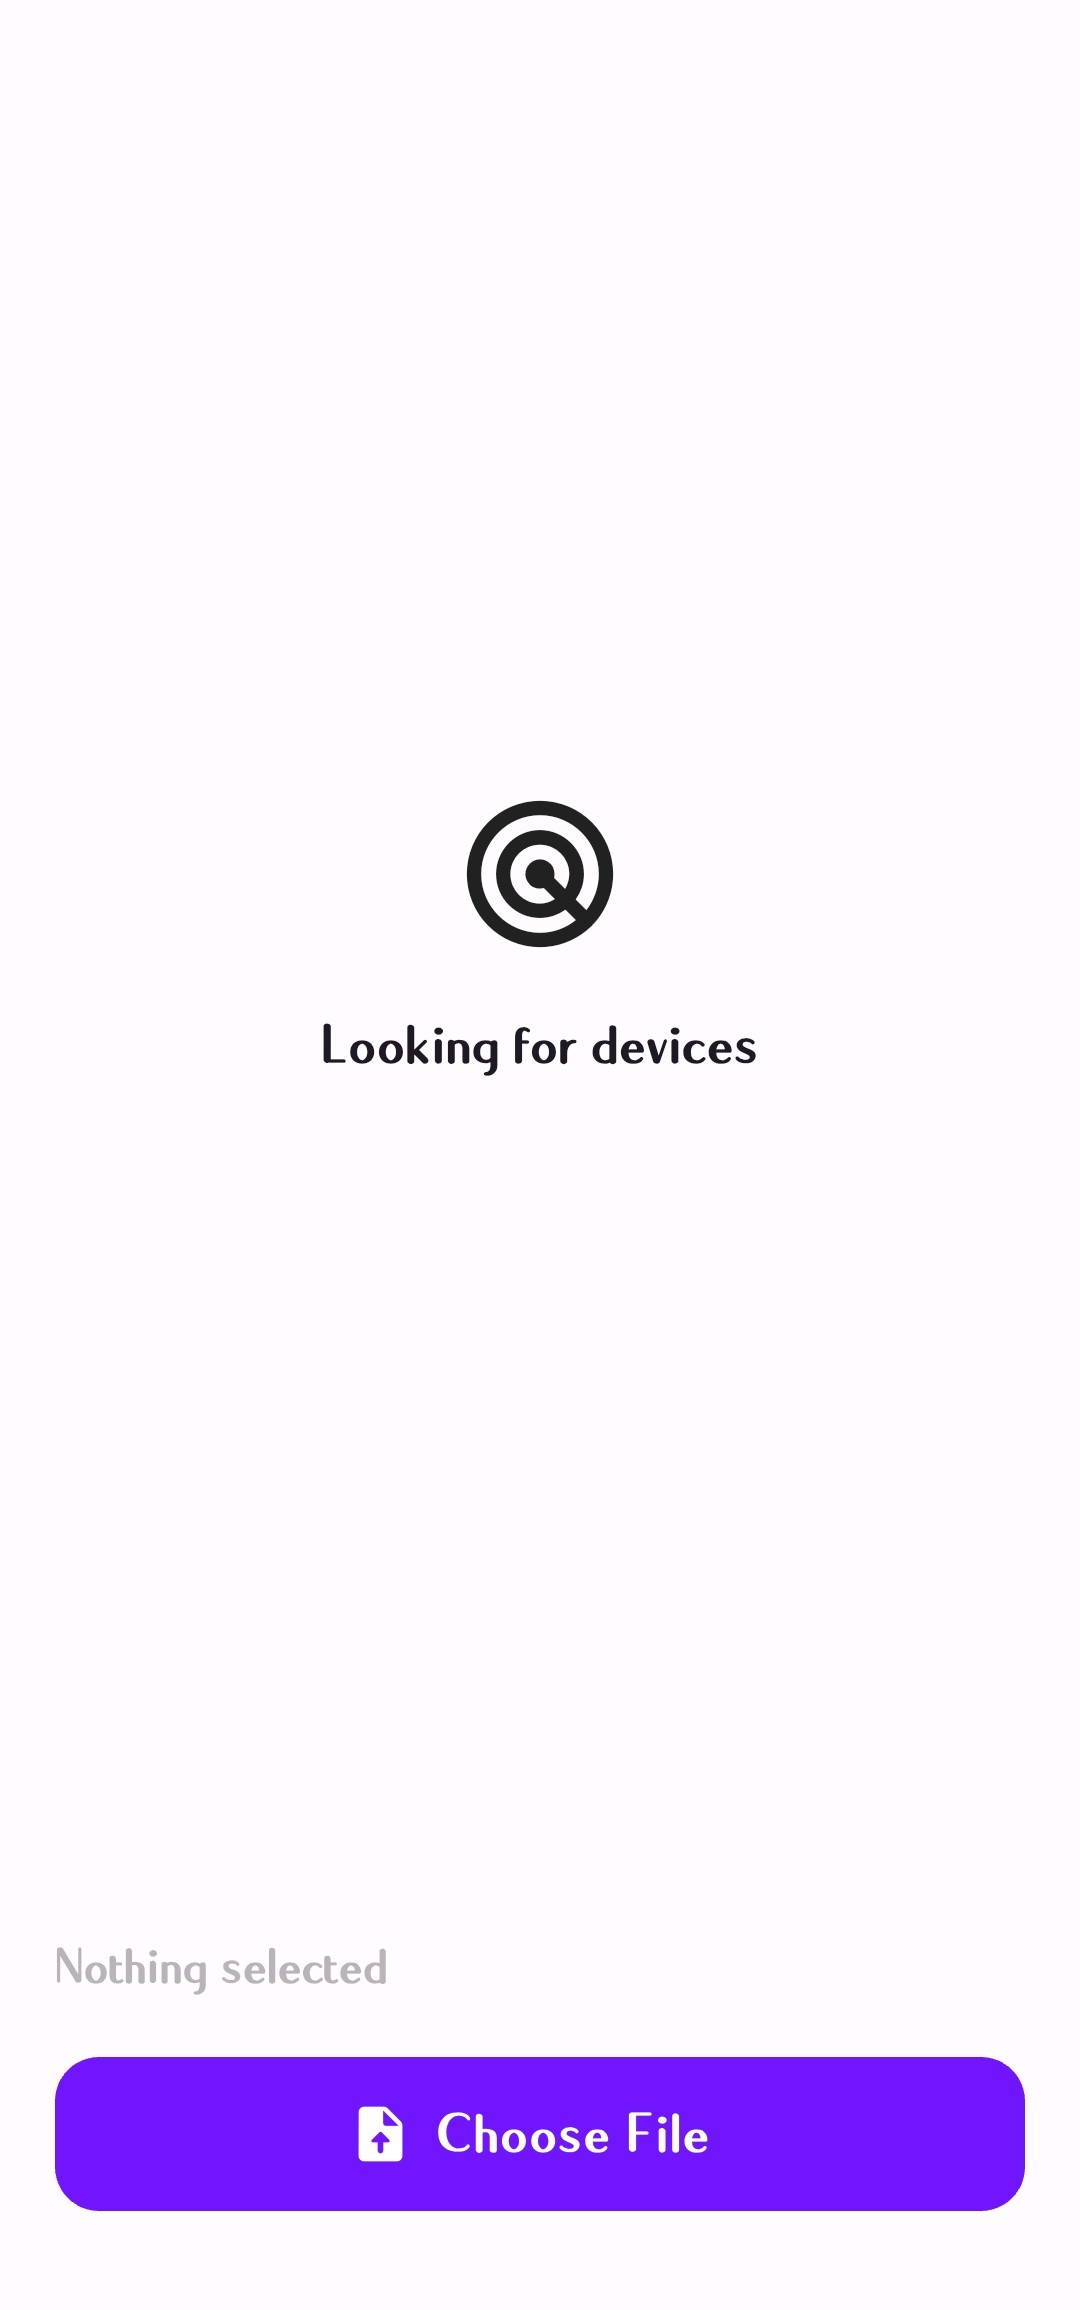
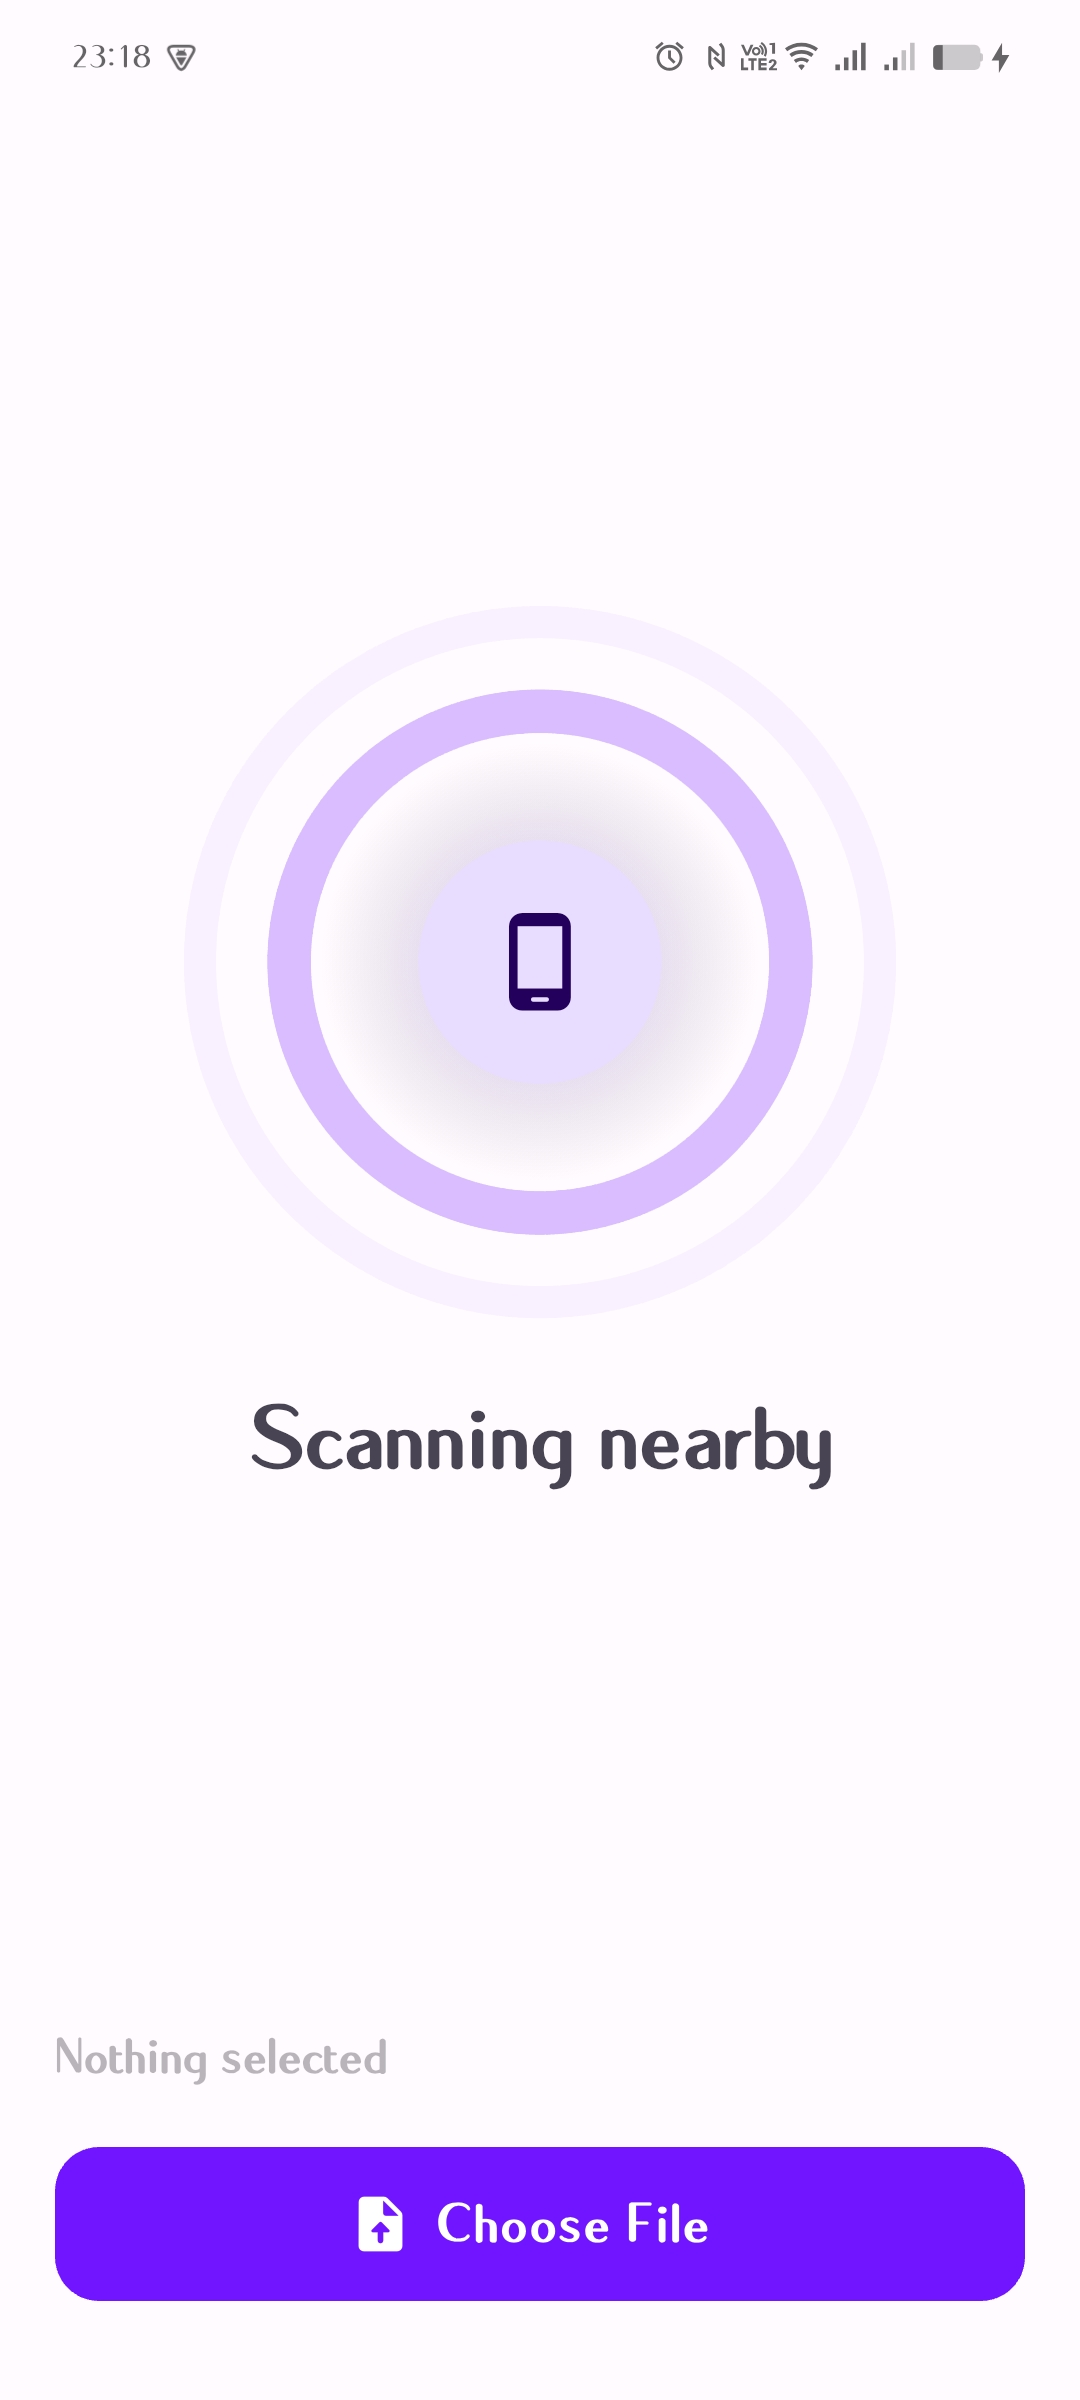
update send page

diff --git a/lib/widgets/scan_widget.dart b/lib/widgets/scan_widget.dart
@@ -1,0 +1,155 @@
+import 'dart:math';
+import 'package:flutter/material.dart';
+
+class ScanField extends StatefulWidget {
+  const ScanField({super.key});
+
+  @override
+  State<ScanField> createState() => _ScanFieldState();
+}
+
+class _ScanFieldState extends State<ScanField>
+    with SingleTickerProviderStateMixin {
+  late final AnimationController _controller;
+
+  static const double maxRadius = 130.0;
+
+  @override
+  void initState() {
+    super.initState();
+
+    _controller = AnimationController(
+      vsync: this,
+      duration: const Duration(milliseconds: 2600),
+    )..repeat();
+  }
+
+  @override
+  void dispose() {
+    _controller.dispose();
+    super.dispose();
+  }
+
+  Widget _buildWave(double delay, Color color) {
+    return AnimatedBuilder(
+      animation: _controller,
+      builder: (_, __) {
+        final raw = (_controller.value + delay) % 1.0;
+        final t = Curves.easeOutCubic.transform(raw);
+
+        final radius = maxRadius * t;
+        final opacity = (1 - t).clamp(0.0, 1.0);
+
+        return CustomPaint(
+          size: Size.square(maxRadius * 2),
+          painter: _CleanBandPainter(
+            radius: radius,
+            thickness: 28 * (1 - t * 0.6),
+            color: color.withAlpha((opacity * 0.9 * 255).round()),
+          ),
+        );
+      },
+    );
+  }
+
+  @override
+  Widget build(BuildContext context) {
+    final scheme = Theme.of(context).colorScheme;
+
+    return Center(
+      child: Column(
+        mainAxisAlignment: MainAxisAlignment.center,
+        children: [
+          SizedBox(
+            width: 300,
+            height: 300,
+            child: Stack(
+              alignment: Alignment.center,
+              children: [
+                _buildWave(0.0, scheme.primary),
+                _buildWave(0.33, scheme.primary),
+                _buildWave(0.66, scheme.primary),
+
+                // soft radial glow
+                Container(
+                  width: 160,
+                  height: 160,
+                  decoration: BoxDecoration(
+                    shape: BoxShape.circle,
+                    gradient: RadialGradient(
+                      colors: [
+                        scheme.primary.withAlpha((0.25 * 255).round()),
+                        Colors.transparent,
+                      ],
+                    ),
+                  ),
+                ),
+
+                // core
+                AnimatedBuilder(
+                  animation: _controller,
+                  builder: (_, __) {
+                    final scale = 1 + (sin(_controller.value * 2 * pi) * 0.04);
+
+                    return Transform.scale(
+                      scale: scale,
+                      child: Container(
+                        width: 92,
+                        height: 92,
+                        decoration: BoxDecoration(
+                          shape: BoxShape.circle,
+                          color: scheme.primaryContainer,
+                        ),
+                        child: Icon(
+                          Icons.phone_android_rounded,
+                          size: 40,
+                          color: scheme.onPrimaryContainer,
+                        ),
+                      ),
+                    );
+                  },
+                ),
+              ],
+            ),
+          ),
+          Text(
+            "Scanning nearby",
+            style: TextStyle(
+              fontSize: 32,
+              fontWeight: FontWeight.w600,
+              color: scheme.onSurfaceVariant,
+            ),
+          ),
+        ],
+      ),
+    );
+  }
+}
+
+class _CleanBandPainter extends CustomPainter {
+  final double radius;
+  final double thickness;
+  final Color color;
+
+  _CleanBandPainter({
+    required this.radius,
+    required this.thickness,
+    required this.color,
+  });
+
+  @override
+  void paint(Canvas canvas, Size size) {
+    final center = size.center(Offset.zero);
+
+    final paint = Paint()
+      ..style = PaintingStyle.stroke
+      ..strokeWidth = thickness
+      ..color = color
+      ..strokeCap = StrokeCap.round;
+
+    canvas.drawCircle(center, radius, paint);
+  }
+
+  @override
+  bool shouldRepaint(covariant _CleanBandPainter oldDelegate) => true;
+}

diff --git a/lib/screen_v2/send_screen.dart b/lib/screen_v2/send_screen.dart
@@ -5,6 +5,7 @@ import 'package:sefyra/services/tcp_server.dart';
 import 'package:sefyra/services/udp_catch.dart';
 import 'package:sefyra/model/payload.dart';
 import 'package:sefyra/widgets/device_card.dart';
+import 'package:sefyra/widgets/scan_widget.dart';
 import 'package:shared_preferences/shared_preferences.dart';
 import 'package:sefyra/widgets/file_picker_widget.dart';
 import 'package:sefyra/widgets/loading_widget.dart';
@@ -198,25 +199,7 @@ class _SendPageState extends State<SendPage> {
                       children: [
                         Expanded(
                           child: _devices.isEmpty
-                              ? const Center(
-                                  child: Column(
-                                    mainAxisAlignment: MainAxisAlignment.center,
-                                    children: [
-                                      Icon(
-                                        Icons.radar,
-                                        size: 64,
-                                      ),
-                                      SizedBox(height: 16),
-                                      Text(
-                                        "Looking for devices",
-                                        style: TextStyle(
-                                          fontSize: 20,
-                                          fontWeight: FontWeight.w600,
-                                        ),
-                                      ),
-                                    ],
-                                  ),
-                                )
+                              ? ScanField()
                               : ListView.builder(
                                   reverse: true,
                                   padding: const EdgeInsets.symmetric(
